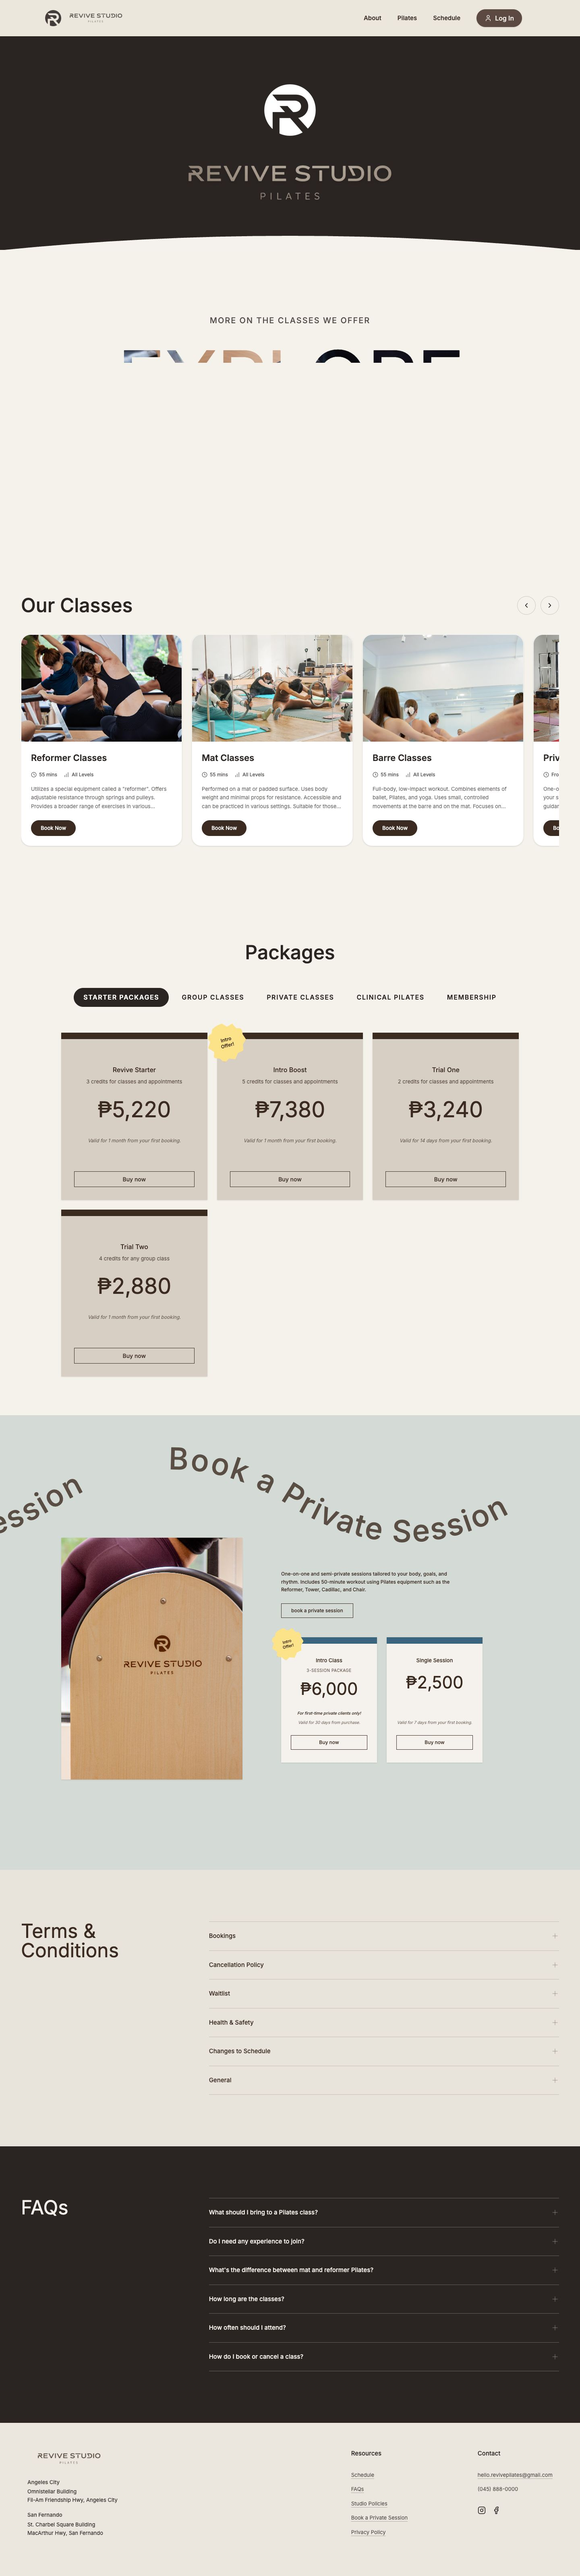
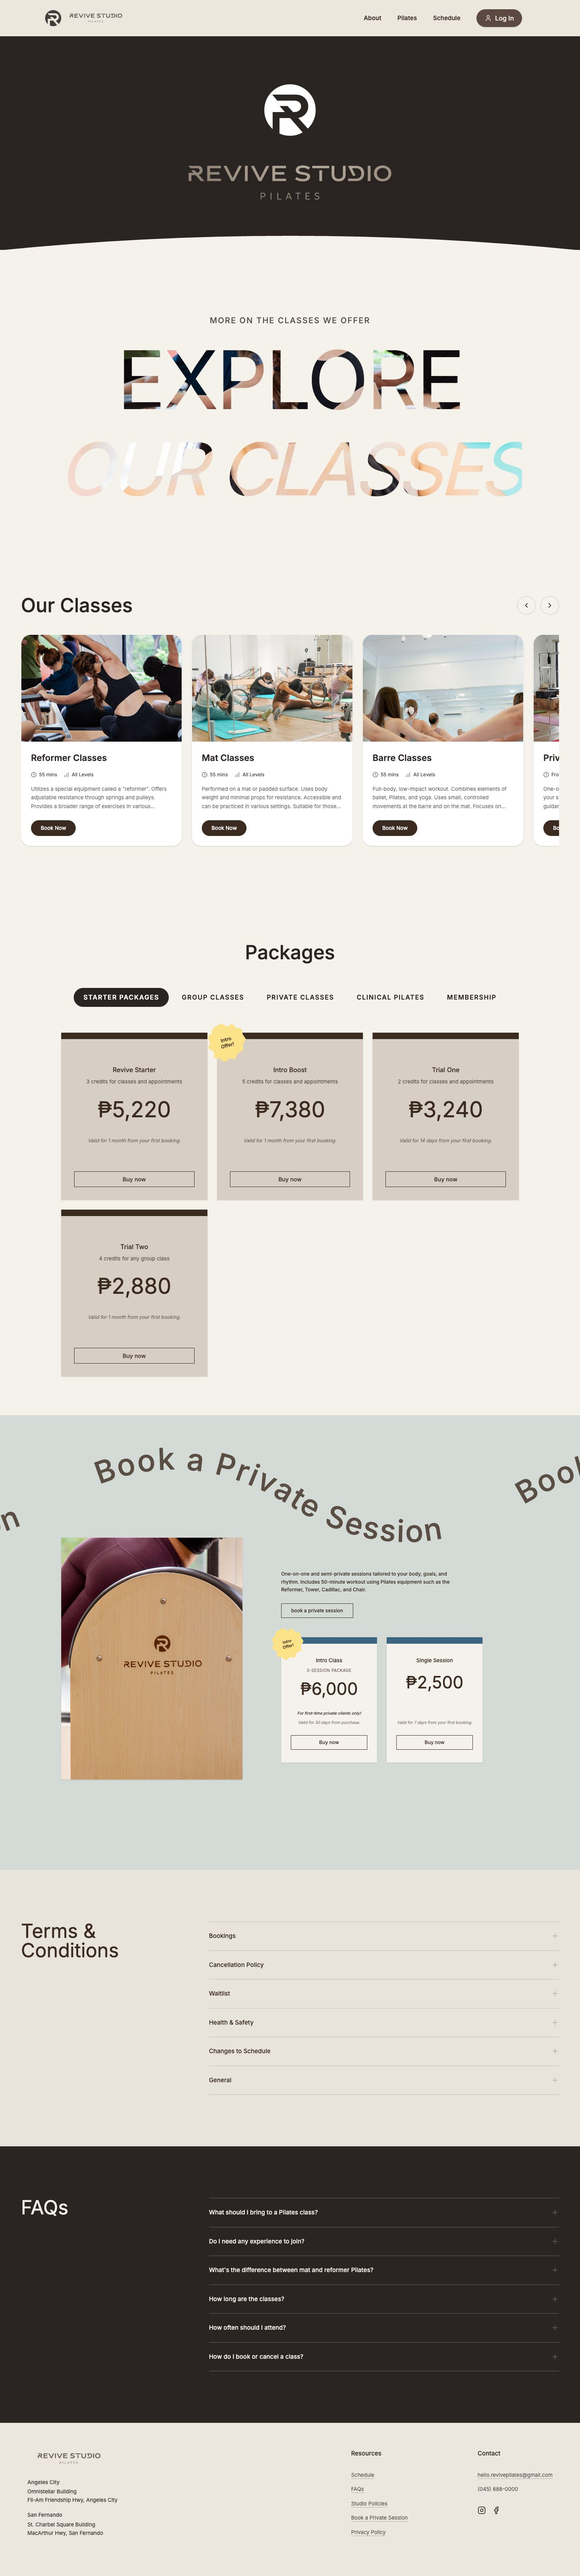
docs: full Pilates page screenshot; AI usage files and commits; restore README AI credit

diff --git a/AI-USAGE.md b/AI-USAGE.md
@@ -6,12 +6,13 @@ This document outlines how AI tools were used during the development of this pro
 
 I used Claude primarily to speed up the development of repetitive boilerplate and get quick reference guides for external libraries. This allowed me to focus my time on applying the core full-stack Node, Express, and PostgreSQL concepts I learned in class to the actual business logic.
 
-1. **Setting up Tailwind configuration:** I provided Claude with my Figma design tokens and prompted it to generate the initial `tailwind.config.js` boilerplate, which I then manually refined. ([04cd415](https://github.com/ciellamher/revive-pilates-studio/commit/04cd415))
+1. **Setting up Tailwind configuration:** I provided Claude with my Figma design tokens and asked it for the Tailwind setup. This project uses Tailwind v4, so the tokens ended up in the `@theme` block of `client/src/index.css` rather than a `tailwind.config.js`; I then refined the names and values by hand. ([04cd415](https://github.com/ciellamher/revive-pilates-studio/commit/04cd415))
 2. **JWT Authentication boilerplate:** While I implemented the route protection logic myself, I used Claude to generate the initial stub for magic link authentication and the basic structure of the JWT verification middleware. ([47abd5c](https://github.com/ciellamher/revive-pilates-studio/commit/47abd5c))
 3. **Nodemailer setup for booking receipts:** Instead of reading through the entire Nodemailer documentation, I asked Claude for a step-by-step guide on how to configure it to email clients when my Postgres database receives a new booking. ([c5c7523](https://github.com/ciellamher/revive-pilates-studio/commit/c5c7523))
 4. **Postgres connection syntax:** I used Claude to quickly generate the basic `pg.Pool` connection syntax and an initial draft for `schema.sql`, which I then expanded significantly with my own relational table designs based on class lessons. ([2ead604](https://github.com/ciellamher/revive-pilates-studio/commit/2ead604))
 5. **Client account pages boilerplate:** I used Claude to scaffold the initial HTML/Tailwind skeleton for the client accounts, saving me time before I applied my own React component structure and atomic design system. ([8c74058](https://github.com/ciellamher/revive-pilates-studio/commit/8c74058))
 6. **Package expiry and trio attendee logic:** I brainstormed with Claude to help structure the initial domain logic for package expiry dates, before writing the actual Express routes and Postgres queries myself. ([5867d42](https://github.com/ciellamher/revive-pilates-studio/commit/5867d42))
+7. **Finals-week clean-up and demo data (Claude Code):** I asked Claude Code to check the project against the final rubric. It wrote the demo schedule and demo clients (`server/db/october-schedule.sql`, `server/db/demo-clients.sql`) ([2a377c9](https://github.com/ciellamher/revive-pilates-studio/commit/2a377c9)) ([ed5f588](https://github.com/ciellamher/revive-pilates-studio/commit/ed5f588)), removed the class template's leftover "sightings" code and unused components, made `npm run db:reset` build a working database, and returned 400 instead of 500 for malformed JSON ([3062ea3](https://github.com/ciellamher/revive-pilates-studio/commit/3062ea3)). I kept these; I chose what the demo data should look like (realistic times, my real coaches, no real emails) and reviewed every screen it touched.
 
 ## Where the AI got it wrong
 
@@ -21,11 +22,24 @@ Catching and fixing bad AI code is a crucial part of the development process. Re
 2. **UI layout issues on mobile:** Claude generated some flex and grid layouts that clipped on mobile devices or pushed elements off-screen. I had to manually audit and adjust the Tailwind classes, utilizing my knowledge of CSS to ensure the layout was responsive across phone screens. ([cad6337](https://github.com/ciellamher/revive-pilates-studio/commit/cad6337))
 3. **Misunderstanding schedule dropdowns & class states:** Claude suggested React components that didn't correctly filter out started or cancelled classes in the schedule dropdown menus (the `overflow-hidden` CSS class was clipping the menus). It also allowed users to proceed to checkout without a valid class ID. I had to rewrite the logic in both `BookYourSpotSchedule.jsx` and `Checkout.jsx` to manage the React state properly. ([fa0af40](https://github.com/ciellamher/revive-pilates-studio/commit/fa0af40))
 
+4. **Demo classes outside the schedule grid:** Claude Code's first demo schedule put classes at 7:00 AM. The admin calendar only draws 8 AM to 8 PM, so those classes rendered over the header and overlapped. I spotted it on the live site; the fix moved them to 10 or 11 AM and the script was corrected so a re-run matches. ([84d6d93](https://github.com/ciellamher/revive-pilates-studio/commit/84d6d93))
+
 ## Who wrote what
 
 A significant portion of this project—well over the required 20% of the Node, Express, and Postgres app—was written entirely by me, applying the lessons from our course.
 
-* **Core Express API & PostgreSQL Integrations:** I personally wrote the manual database schema updates and the associated Express REST endpoints (like `/api/bookings` and `/api/classes`) to securely handle real spot selection, manage checkout states, and tie them securely to user sessions. ([01661d2](https://github.com/ciellamher/revive-pilates-studio/commit/01661d2))
-* **Private Sessions and Admin Control Backend:** I wrote the core Node/Express domain logic that allows classes to be bookable as private by default. I also manually wrote the complex Postgres queries (`SELECT`, `JOIN`, `UPDATE`) and routing logic that allows admins to manage private, duo, and trio session types from the backend. ([855eeb9](https://github.com/ciellamher/revive-pilates-studio/commit/855eeb9))
-* **UI Design & React Frontend:** I designed the entire application from scratch using Figma before writing any code. The component structure and atomic design implementation were my own work based on those designs, ensuring the frontend connected smoothly to my Express backend. ([04cd415](https://github.com/ciellamher/revive-pilates-studio/commit/04cd415))
-* **Admin Drag-and-Drop Schedule:** The complex state management for the Google Calendar-style drag and drop schedule in the admin dashboard was implemented manually by me to ensure the studio had the exact tools we discussed. ([3341683](https://github.com/ciellamher/revive-pilates-studio/commit/3341683))
+* **Core Express API & PostgreSQL Integrations:** I personally wrote the manual database schema updates and the associated Express REST endpoints (like `/api/bookings` and `/api/classes`) to securely handle real spot selection, manage checkout states, and tie them securely to user sessions. Files: `server/server.js`, `server/bookingsRepo.js`, and the roster in `client/src/components/organisms/AdminClassRoster.jsx`. ([01661d2](https://github.com/ciellamher/revive-pilates-studio/commit/01661d2))
+* **Private Sessions and Admin Control Backend:** I wrote the core Node/Express domain logic that allows classes to be bookable as private by default. I also manually wrote the complex Postgres queries (`SELECT`, `JOIN`, `UPDATE`) and routing logic that allows admins to manage private, duo, and trio session types from the backend. Files: `server/classesRepo.js` (the `allow_private` column on each class), `server/server.js`, and `client/src/pages/AdminDashboard.jsx`. ([855eeb9](https://github.com/ciellamher/revive-pilates-studio/commit/855eeb9))
+* **UI Design & React Frontend:** I designed the entire application from scratch using Figma before writing any code. The component structure and atomic design implementation were my own work based on those designs, ensuring the frontend connected smoothly to my Express backend. Files: `client/src/pages/` (one page per route) and `client/src/components/organisms/`. ([04cd415](https://github.com/ciellamher/revive-pilates-studio/commit/04cd415))
+* **Admin Drag-and-Drop Schedule:** The complex state management for the Google Calendar-style drag and drop schedule in the admin dashboard was implemented manually by me to ensure the studio had the exact tools we discussed. File: `client/src/components/organisms/ClassScheduleGrid.jsx` — dragging a class converts the pixel distance into minutes, snaps it to 15-minute steps, and sends the new start time to `PATCH /api/classes/:id`. ([3341683](https://github.com/ciellamher/revive-pilates-studio/commit/3341683))
+
+### The AI-written piece: `server/db/october-schedule.sql`
+
+Claude Code wrote this file ([2a377c9](https://github.com/ciellamher/revive-pilates-studio/commit/2a377c9)) ([84d6d93](https://github.com/ciellamher/revive-pilates-studio/commit/84d6d93)), and I kept it as written. It fills the rest of October with classes in one `INSERT ... SELECT`:
+
+- `generate_series(DATE '2026-10-08', DATE '2026-10-31', interval '1 day')` makes one row per day.
+- A `VALUES` list is the studio's weekly template: weekday (`isodow`, 1 = Monday), branch, start time, class type and coach name. Joining it on `EXTRACT(ISODOW FROM day)` gives every class for every day.
+- Coaches are joined **by name**, not by id, so the script works on any database seeded with the same coaches.
+- Capacity comes from the class type (Reformer 4, Mat and Barre 10, private 1), and only Reformer and private classes allow private booking.
+- `WHERE NOT EXISTS (... same date, time and branch ...)` skips any slot that already has a class. That is what makes it safe to run twice, and safe against the live database: it only ever inserts.
+

diff --git a/README.md b/README.md
@@ -1,5 +1,7 @@
 # Revive Pilates Studio
 
+[![Made with AI](https://img.shields.io/badge/Made_with-AI_assistance-blue)](AI-USAGE.md)
+
 A full-stack booking application for a boutique Pilates studio with two branches. Clients can browse classes, pick their spot, purchase packages, and manage bookings, while the studio manages the schedule, coaches, and payments from an admin dashboard.
 
 > **Live site:** https://revive-pilates-studio-6b8h.vercel.app
@@ -186,7 +188,9 @@ npm run dev        # site on http://localhost:5173
 
 ### 10 — AI USAGE
 
-How AI tools were used in this project, and which parts were written by hand, is documented in [AI-USAGE.md](AI-USAGE.md).
+Built with **Claude** (Anthropic) as a coding assistant, used moderately: for boilerplate, library setup, debugging, and the finals-week demo data and clean-up. The UI design, the database schema, the booking and package rules, and the admin schedule were written by hand.
+
+> Full breakdown, with commits: [AI-USAGE.md](AI-USAGE.md)
 
 ---
 
